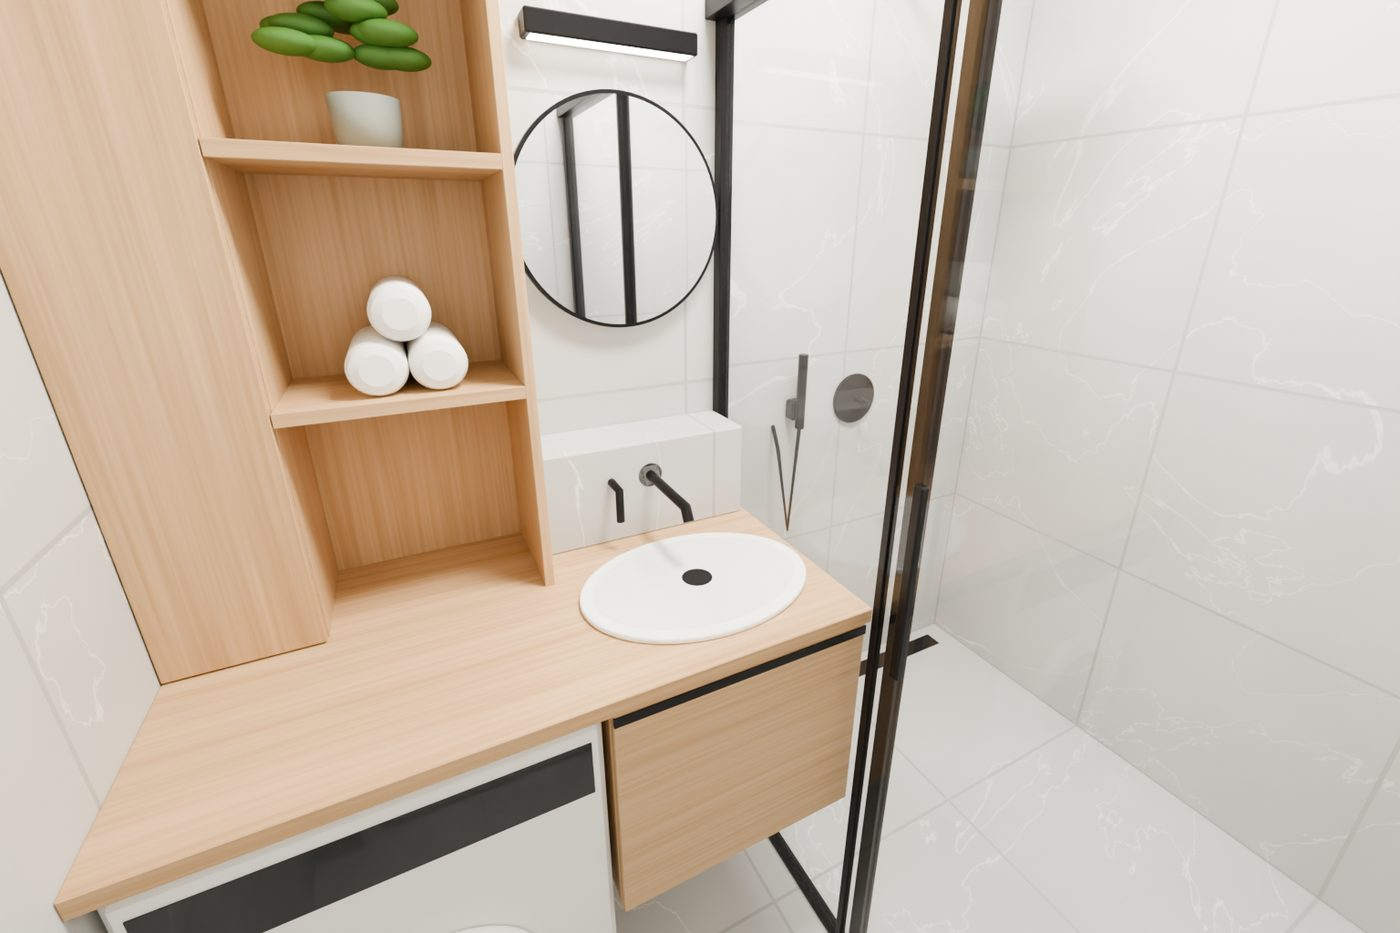
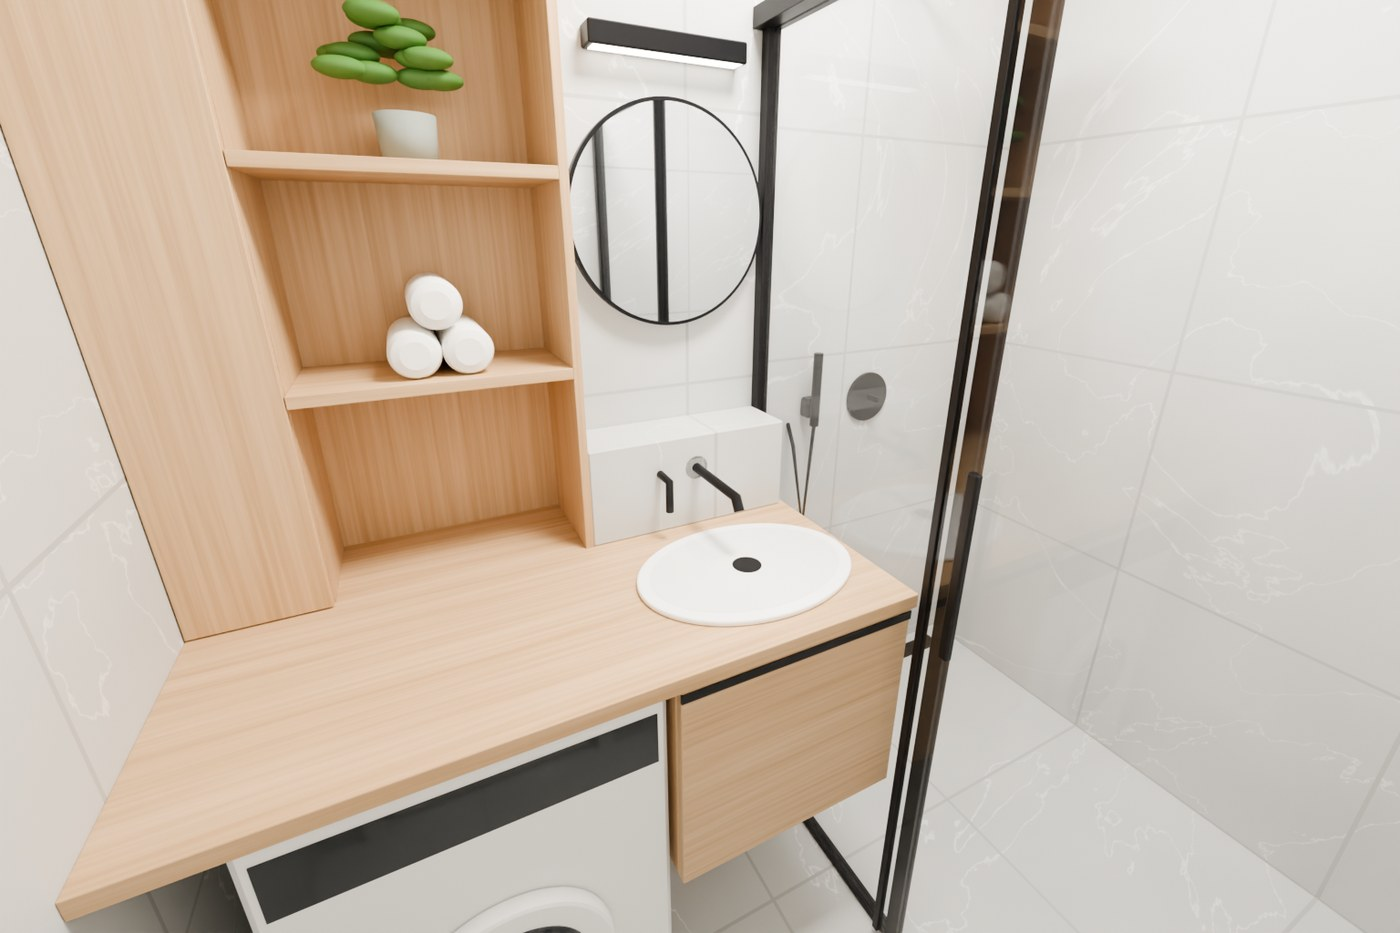
Kúpeľňa podľa merania 4. 11.: sprcha 100 × 143, predsadená stena s umývadlom, práčka v nike

diff --git a/index.html b/index.html
@@ -274,22 +274,22 @@ regenerate that view once with a stricter instruction.
   
 </section>
 <section id="kupelna">
-  <div class="eyebrow">Miestnosť 5 · strana 8 elektroprojektu, upravené podľa stavby (3. 11. 2026)</div>
+  <div class="eyebrow">Miestnosť 5 · strana 8 elektroprojektu, upravené podľa stavby (meranie 4. 11. 2026)</div>
   <h2>Kúpeľňa</h2>
-  <p class="meta">2,21 × 1,42 m · ≈ 3,1 m² · strop 260 cm</p>
-  <p>Od dverí je vľavo vstavaná práčka 60 cm, v strede závesná umývadlová skrinka 50 cm s umývadlom na dosku a podomietkovou batériou zo steny a vpravo sprchový kút cez celú zvyšnú šírku a celú hĺbku izby. Sprchu uzatvárajú posuvné dvere SAT Feel 130, ktoré idú kolmo od hrany predsadenej steny po protiľahlú stenu. Sadrokartón pri práčke a umývadle je kvôli rúram radiátora vysunutý o 12 cm. Obklad aj dlažba sú Aura Canvas Mate 60 × 60 z Merkury. Vybral si spoločnú dosku nad práčkou aj skrinkou; umývadlo je v troch variantoch U1 až U3 (otázka 20 v dokumente).</p>
+  <p class="meta">2,21 × 1,43 m · ≈ 3,1 m² · strop 260 cm</p>
+  <p>Od dverí je vľavo práčka 60 cm v nike, ktorej stena je o 11 cm hlbšie, v strede závesná umývadlová skrinka 50 cm na stene predsadenej kvôli rúram od radiátora a vpravo sprchový kút 100 × 143 cm. Od steny s umývadlom po protiľahlú stenu je 130 cm, presne na posuvné dvere SAT Feel 130, ktoré idú kolmo od hrany predsadenej steny. Obklad aj dlažba sú Aura Canvas Mate 60 × 60 z Merkury. Vybral si spoločnú dosku nad práčkou aj skrinkou; umývadlo je v troch variantoch U1 až U3 (otázka 20 v dokumente).</p>
 
   
   <h3>Fotovizualizácie</h3>
   <p class="note">Render makety dofarbený AI (FLUX.2 klein, zadarmo). Polohu a veľkosť nábytku drží maketa,
-  AI mení iba materiály a svetlo. Fotky z ChatGPT sú ešte s pôvodným umývadlom pri stene. Nové varianty umývadla U1 až U3 sú nižšie v renderoch makety.</p>
+  AI mení iba materiály a svetlo. Fotky z ChatGPT sú ešte s pôvodným umývadlom a mierami spred 4. 11. Varianty umývadla U1 až U3 podľa nového merania sú nižšie v renderoch makety.</p>
   <div class="grid photos"><figure class=""><a href="img/kupelna-gpt3-A-stena.jpg" target="_blank" rel="noopener"><img src="img/kupelna-gpt3-A-stena.jpg" alt="Stena s umývadlom (pôvodné umývadlo pri stene)" loading="lazy"></a><figcaption>Stena s umývadlom (pôvodné umývadlo pri stene)</figcaption></figure><figure class=""><a href="img/kupelna-gpt3-A-sprcha.jpg" target="_blank" rel="noopener"><img src="img/kupelna-gpt3-A-sprcha.jpg" alt="Sprcha" loading="lazy"></a><figcaption>Sprcha</figcaption></figure><figure class=""><a href="img/kupelna-gpt3-A-dvere.jpg" target="_blank" rel="noopener"><img src="img/kupelna-gpt3-A-dvere.jpg" alt="Od dverí (pôvodné umývadlo)" loading="lazy"></a><figcaption>Od dverí (pôvodné umývadlo)</figcaption></figure></div>
 
   <h3>Pôdorys v mierke</h3>
-  <figure class="plan"><a href="img/kupelna-podorys.svg" target="_blank" rel="noopener"><img src="img/kupelna-podorys.svg" alt="Pôdorys v mierke: Kúpeľňa" loading="lazy"></a><figcaption>Kóty v cm podľa tvojho merania: 142 cm od steny s batériou, 130 cm od predsadenej steny. Šírka steny 221 cm je z projektu.</figcaption></figure>
+  <figure class="plan"><a href="img/kupelna-podorys.svg" target="_blank" rel="noopener"><img src="img/kupelna-podorys.svg" alt="Pôdorys v mierke: Kúpeľňa" loading="lazy"></a><figcaption>Kóty v cm podľa tvojho merania zo 4. 11. Šírka steny 221 cm je z projektu, preto je niša práčky (71 cm) zatiaľ predpoklad.</figcaption></figure>
 
   <h3>Rozmery</h3>
-  <div class="tablewrap"><table><thead><tr><th>Čo</th><th>Rozmer</th><th>Odkiaľ</th></tr></thead><tbody><tr><td>Stena so sprchou, umývadlom a práčkou</td><td><b>221 cm</b></td><td class='src'>projekt</td></tr><tr><td>Hĺbka izby</td><td><b>142 cm od steny s batériou, 130 cm od predsadenej steny</b></td><td class='src'>tvoje meranie</td></tr><tr><td>Vstavaná práčka</td><td><b>60 cm, vľavo pri stene s obývačkou</b></td><td class='src'>tvoja odpoveď</td></tr><tr><td>Umývadlová skrinka</td><td><b>50 cm, závesná, umývadlo na dosku, batéria zo steny</b></td><td class='src'>tvoja odpoveď</td></tr><tr><td>Sprchový kút</td><td><b>asi 111 × 142 cm</b></td><td class='src'>dopočítané</td></tr><tr><td>Sprchové dvere</td><td><b>SAT Feel 130, posuvné, čierny profil, číre sklo, kolmo od predsadenej steny</b></td><td class='src'>SIKO, tvoja odpoveď</td></tr><tr><td>Výstupok sadrokartónu</td><td><b>12 cm pri práčke aj umývadle</b></td><td class='src'>stavba</td></tr><tr><td>Obklad a dlažba</td><td><b>Aura Canvas Mate 60 × 60, po strop aj na podlahe</b></td><td class='src'>Merkury</td></tr></tbody></table></div>
+  <div class="tablewrap"><table><thead><tr><th>Čo</th><th>Rozmer</th><th>Odkiaľ</th></tr></thead><tbody><tr><td>Stena so sprchou, umývadlom a práčkou</td><td><b>221 cm</b></td><td class='src'>projekt, overiť (100 + 50 + 60 = 210)</td></tr><tr><td>Hĺbka pri sprche</td><td><b>143 cm od steny s batériou po protiľahlú stenu</b></td><td class='src'>tvoje meranie 4. 11.</td></tr><tr><td>Hĺbka pri umývadle</td><td><b>130 cm od predsadenej steny po protiľahlú stenu</b></td><td class='src'>tvoje meranie 4. 11.</td></tr><tr><td>Hĺbka pri práčke</td><td><b>141 cm, stena je o 11 cm hlbšie ako stena s umývadlom</b></td><td class='src'>tvoje meranie 4. 11.</td></tr><tr><td>Vstavaná práčka</td><td><b>60 cm v nike, vľavo pri stene s obývačkou</b></td><td class='src'>tvoja odpoveď</td></tr><tr><td>Umývadlová skrinka</td><td><b>50 cm, závesná, umývadlo na dosku, batéria zo steny</b></td><td class='src'>tvoja odpoveď</td></tr><tr><td>Sprchový kút</td><td><b>100 × 143 cm</b></td><td class='src'>tvoje meranie 4. 11.</td></tr><tr><td>Sprchové dvere</td><td><b>SAT Feel 130, posuvné, čierny profil, číre sklo, kolmo od predsadenej steny</b></td><td class='src'>SIKO, tvoja odpoveď</td></tr><tr><td>Výstupok sadrokartónu</td><td><b>13 cm len pri umývadle (rúry od radiátora)</b></td><td class='src'>tvoje meranie 4. 11.</td></tr><tr><td>Obklad a dlažba</td><td><b>Aura Canvas Mate 60 × 60, po strop aj na podlahe</b></td><td class='src'>Merkury</td></tr></tbody></table></div>
 
   <h3>Ako je to rozvrhnuté</h3>
   <div class="cards"><div class='card'><h4>Sprcha</h4><p>Žľab pri stene s batériou, podomietková batéria, dažďová sprcha zo steny a ručná sprcha. Posuvné dvere s pevným dielom pri stene s batériou a posuvným krídlom pri protiľahlej stene.</p></div><div class='card'><h4>Umývadlo</h4><p>Závesná dubová skrinka 50 cm so zásuvkou, biele vrúbkované umývadlo na dosku, čierna batéria zo steny, okrúhle podsvietené zrkadlo a čierne svetlo nad ním.</p></div><div class='card'><h4>Práčka, variant A</h4><p>Spoločná dubová doska nad práčkou aj skrinkou, nad práčkou dubové police na uteráky a úzka skrinka po strop.</p></div><div class='card'><h4>Práčka, variant B</h4><p>Vysoká dubová skriňa po strop: dole práčka, nad ňou otvorená polica, hore dvoje dvierka.</p></div><div class='card'><h4>Obklad</h4><p>Aura Canvas Mate 60 × 60, svetlosivý s jemnými bielymi žilkami, na stenách po strop aj na podlahe.</p></div></div>
@@ -298,13 +298,13 @@ regenerate that view once with a stricter instruction.
   <p class="note">Maketa je v Blenderi postavená z rozmerov vyššie. Zábery sú z výšky očí, s rovnými zvislými hranami.
   Rovnaké kamery používa aj fotovizualizácia, preto sedia polohy aj mierka.</p>
   <div class="grid two"><figure class=""><a href="img/kupelna-zhora.jpg" target="_blank" rel="noopener"><img src="img/kupelna-zhora.jpg" alt="Maketa Zhora, variant A" loading="lazy"></a><figcaption>Zhora, variant A</figcaption></figure><figure class=""><a href="img/kupelna-domcek.jpg" target="_blank" rel="noopener"><img src="img/kupelna-domcek.jpg" alt="Maketa Domček, variant A" loading="lazy"></a><figcaption>Domček, variant A</figcaption></figure></div>
-  <div class="grid photos"><figure class=""><a href="img/kupelna-U1-umyvadlo.jpg" target="_blank" rel="noopener"><img src="img/kupelna-U1-umyvadlo.jpg" alt="Render makety U1 · zapustené umývadlo a polička (odporúčam)" loading="lazy"></a><figcaption>U1 · zapustené umývadlo a polička (odporúčam)</figcaption></figure><figure class=""><a href="img/kupelna-U1-dvere.jpg" target="_blank" rel="noopener"><img src="img/kupelna-U1-dvere.jpg" alt="Render makety U1 · od dverí" loading="lazy"></a><figcaption>U1 · od dverí</figcaption></figure><figure class=""><a href="img/kupelna-U2-umyvadlo.jpg" target="_blank" rel="noopener"><img src="img/kupelna-U2-umyvadlo.jpg" alt="Render makety U2 · umývadlo na dosku a polička" loading="lazy"></a><figcaption>U2 · umývadlo na dosku a polička</figcaption></figure><figure class=""><a href="img/kupelna-U2-dvere.jpg" target="_blank" rel="noopener"><img src="img/kupelna-U2-dvere.jpg" alt="Render makety U2 · od dverí" loading="lazy"></a><figcaption>U2 · od dverí</figcaption></figure><figure class=""><a href="img/kupelna-U3-umyvadlo.jpg" target="_blank" rel="noopener"><img src="img/kupelna-U3-umyvadlo.jpg" alt="Render makety U3 · zalomená doska bez poličky" loading="lazy"></a><figcaption>U3 · zalomená doska bez poličky</figcaption></figure><figure class=""><a href="img/kupelna-U3-dvere.jpg" target="_blank" rel="noopener"><img src="img/kupelna-U3-dvere.jpg" alt="Render makety U3 · od dverí" loading="lazy"></a><figcaption>U3 · od dverí</figcaption></figure></div>
+  <div class="grid photos"><figure class=""><a href="img/kupelna-U1-umyvadlo.jpg" target="_blank" rel="noopener"><img src="img/kupelna-U1-umyvadlo.jpg" alt="Render makety U1 · zapustené umývadlo a polička (odporúčam)" loading="lazy"></a><figcaption>U1 · zapustené umývadlo a polička (odporúčam)</figcaption></figure><figure class=""><a href="img/kupelna-U1-dvere.jpg" target="_blank" rel="noopener"><img src="img/kupelna-U1-dvere.jpg" alt="Render makety U1 · od dverí" loading="lazy"></a><figcaption>U1 · od dverí</figcaption></figure><figure class=""><a href="img/kupelna-U2-umyvadlo.jpg" target="_blank" rel="noopener"><img src="img/kupelna-U2-umyvadlo.jpg" alt="Render makety U2 · umývadlo na dosku a polička" loading="lazy"></a><figcaption>U2 · umývadlo na dosku a polička</figcaption></figure><figure class=""><a href="img/kupelna-U2-dvere.jpg" target="_blank" rel="noopener"><img src="img/kupelna-U2-dvere.jpg" alt="Render makety U2 · od dverí" loading="lazy"></a><figcaption>U2 · od dverí</figcaption></figure><figure class=""><a href="img/kupelna-U3-umyvadlo.jpg" target="_blank" rel="noopener"><img src="img/kupelna-U3-umyvadlo.jpg" alt="Render makety U3 · rovná doska bez poličky" loading="lazy"></a><figcaption>U3 · rovná doska bez poličky</figcaption></figure><figure class=""><a href="img/kupelna-U3-dvere.jpg" target="_blank" rel="noopener"><img src="img/kupelna-U3-dvere.jpg" alt="Render makety U3 · od dverí" loading="lazy"></a><figcaption>U3 · od dverí</figcaption></figure></div>
 
   <h3>Farby a materiály</h3>
   <div class="swatches"><div class='sw'><span style='background:#D8D8D6'></span>Obklad a dlažba Aura Canvas 60 × 60<small>#D8D8D6</small></div><div class='sw'><span style='background:#D3B18A'></span>Dub skrinky a police<small>#D3B18A</small></div><div class='sw'><span style='background:#17171A'></span>Profil dverí, batérie, zrkadlo<small>#17171A</small></div><div class='sw'><span style='background:#FAFAF8'></span>Umývadlo<small>#FAFAF8</small></div></div>
 
   <h3>Na overenie</h3>
-  <ol class="qs"><li>Šírku steny 221 cm beriem z projektu, ak ju premeriaš, napíš mi.</li></ol>
+  <ol class="qs"><li>Sprcha 100 + skrinka 50 + práčka 60 je 210 cm, projekt má stenu 221 cm. Aká je celá šírka steny a aký široký je predsadený sadrokartón pri umývadle (otázka 21 v dokumente)?</li></ol>
   <details><summary>Prompt pre Codex (ak by si chcel fotky z iného modelu)</summary><pre>Úloha: vytvor fotorealistické fotovizualizácie novej kúpeľne (2 varianty) a WC z jednofarebných 3D makiet (verzia 3).
 
 PODKLADY (na tomto počítači):
